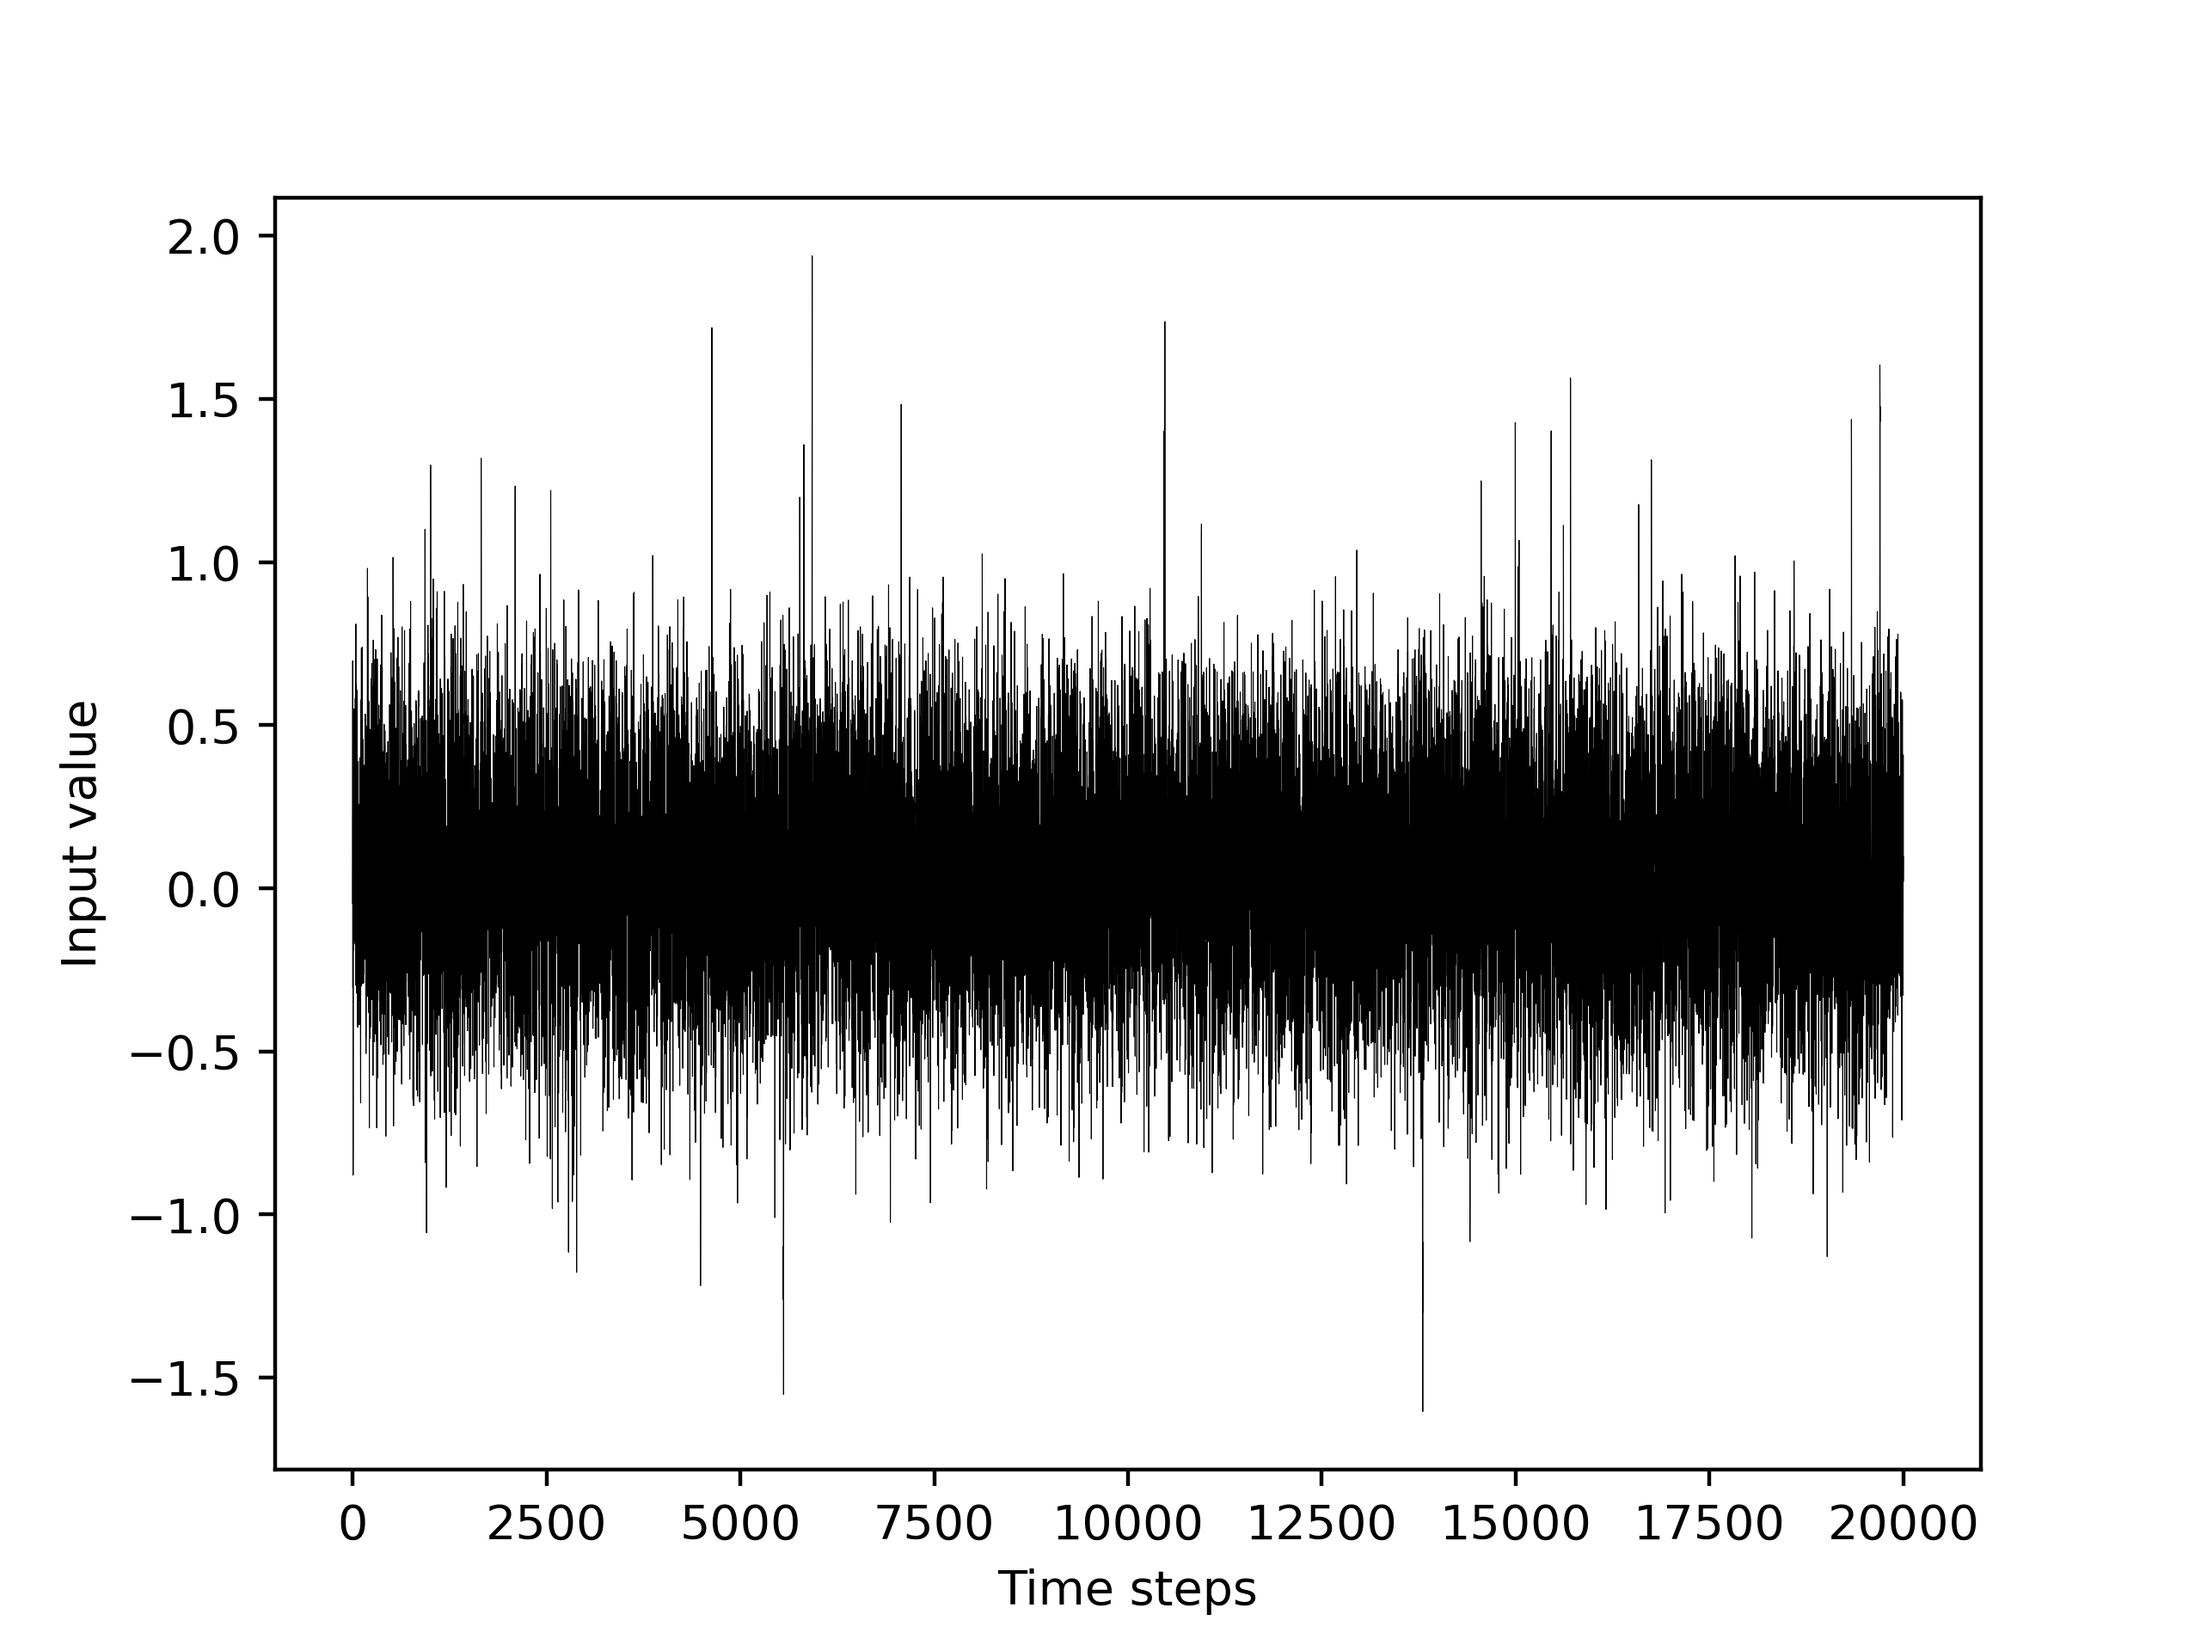
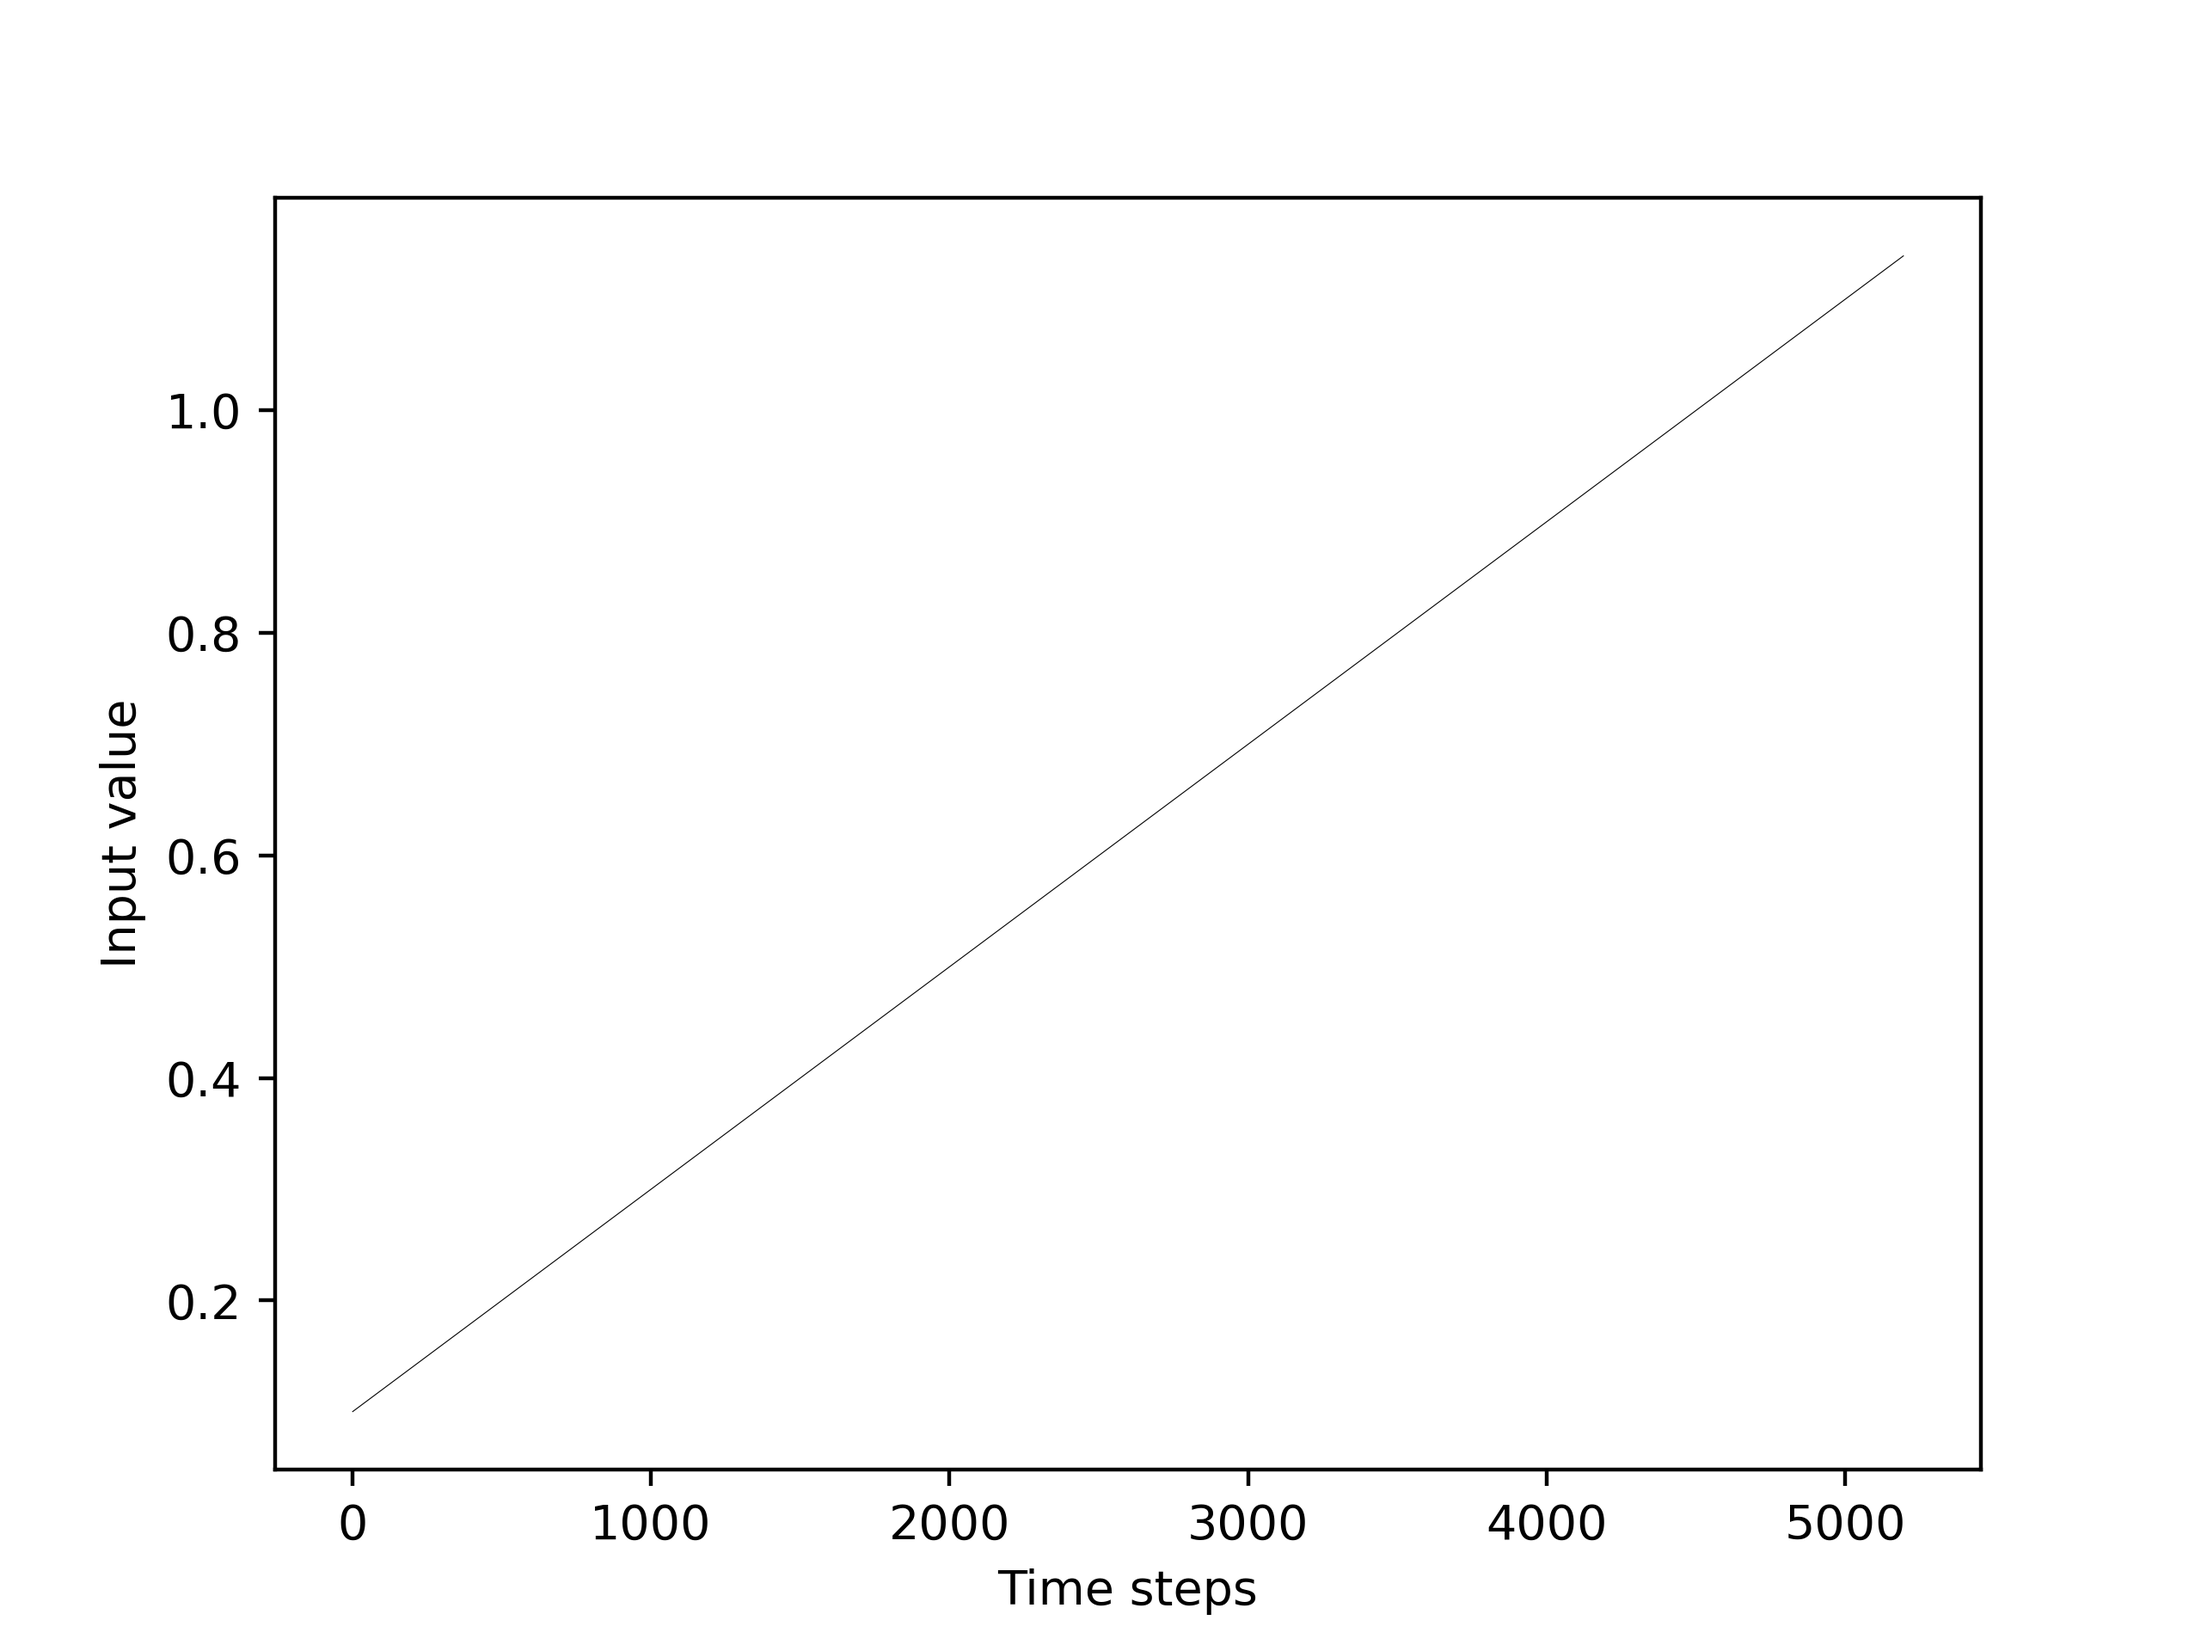
now number of unique networks are counted

diff --git a/Functions/base.cpp b/Functions/base.cpp
@@ -7,6 +7,9 @@ void genome::base (int N)
     ofstream Alive_counter ("./Outputs/Alive.txt");
     ofstream du_Alive_counter ("./Outputs/du_Alive.txt");
     ofstream enviroment ("./Outputs/envi.txt");
+    ofstream uni ("./Outputs/uni.txt");
+    ofstream du_uni ("./Outputs/du_uni.txt"); 
+
     int needed_networks;
     int du_needed_networks;
     double evolve = 0;
@@ -27,15 +30,15 @@ void genome::base (int N)
         du_Reader(du_location);
     }
     
-    int step = 10000;
+    int step = 5000;
     
     for (int ini=1 ; ini < (2*step) ; ini++)
     {
         needed_networks = 0;
         du_needed_networks = 0;
-        //evolve = Environment_li(ini, step) ; //for linear and step based increase
+        evolve = Environment_li(ini, step) ; //for linear and step based increase
         //evolve = Environment_Ga(); //Gaus environment
-        evolve = Environment_no_l(evolve, step); //No linear with gaus jumps environment
+        //evolve = Environment_no_l(evolve, step); //No linear with gaus jumps environment
         alive = 0;
         du_alive = 0;
         fit = 0;
@@ -119,8 +122,10 @@ void genome::base (int N)
 
         Alive_counter << ini <<'\t'<< zz <<endl;
         du_Alive_counter << ini <<'\t'<< du_zz <<endl;
-        enviroment << ini <<'\t'<< evolve <<endl;     
-        
+        enviroment << ini <<'\t'<< evolve <<endl;
+        int Un = 0; 
+        int du_Un = 0;
+
         //the whole block is for single networks ...
         
         if (needed_networks != 0 && alive != 0)
@@ -134,7 +139,16 @@ void genome::base (int N)
         {
             du_Chance_of_repro(du_needed_networks, number_networks);
         }
+        
+        for (int a=0 ; a<number_networks ; a++)     
+        {
+            if (ne[a].unique == true)   Un++;
+            
+            if (dn[a].unique == true)   du_Un++;
+        }
 
+        uni << ini << '\t' << Un << endl;
+        du_uni << ini << '\t' << du_Un << endl;
         if (alive == 0 || du_alive == 0)
             break;
     }

diff --git a/plotter.py b/plotter.py
@@ -8,6 +8,8 @@ os.mkdir("./diagrams")
 X = np.loadtxt("./Outputs/Alive.txt")
 Y = np.loadtxt("./Outputs/du_Alive.txt")
 Z = np.loadtxt("./Outputs/envi.txt")
+K = np.loadtxt("./Outputs/uni.txt")
+H = np.loadtxt("./Outputs/du_uni.txt")
 
 #for i in range (0,len(X)):
 #    X[i][1] = X[i][1] / 10000
@@ -19,6 +21,8 @@ Z = np.loadtxt("./Outputs/envi.txt")
 
 plt.plot([i[0] for i in X], [i[1] for i in X],label='non-duplicated',color='blue')
 plt.plot([i[0] for i in Y], [i[1] for i in Y],label='duplicated',color='orange', alpha=0.6)
+
+
 
 #plt.bar([i[0] for i in X], [i[1] for i in X],label='non-duplicated',color='blue')
 #plt.bar([i[0] for i in Y], [i[1] for i in Y],label='duplicated',color='orange', alpha=0.5)
@@ -36,4 +40,15 @@ plt.plot([i[0] for i in Z], [i[1] for i in Z],color='black', lw=0.2)
 plt.xlabel("Time steps")
 plt.ylabel("Input value")
 plt.savefig('./diagrams/env.png',dpi=400)
+plt.close()
+
+
+plt.plot([i[0] for i in K], [i[1] for i in K],label='non-duplicated',color='blue')
+plt.plot([i[0] for i in H], [i[1] for i in H],label='duplicated',color='orange', alpha=0.6)
+plt.yscale('log')
+plt.xscale('log')
+#plt.xlim(0,400)
+plt.xlabel("log [Time steps]")
+plt.ylabel("log[Number of Unique networks]")
+plt.savefig('./diagrams/un.png',dpi=400)
 plt.close()

diff --git a/Functions/reader.cpp b/Functions/reader.cpp
@@ -14,7 +14,8 @@ void genome::Reader(string location)
             if (ne[temp_net].adjac[j][k] != 0)   connect (j, k, ne[temp_net].adjac[j][k], temp_net);
         }
     }
-    
+
+    ne[temp_net].unique = true;
     NetWork.close();
     ne[temp_net].living = true;
     specefication();
@@ -34,7 +35,8 @@ void genome::du_Reader(string du_location)
             if (dn[temp_net].du_adjac[j][k] != 0)    du_connect (j, k, dn[temp_net].du_adjac[j][k], temp_net);
         }
     }
-    
+
+    dn[temp_net].unique = true;
     NetWork.close();
     dn[temp_net].living = true;
     du_specefication();

diff --git a/Functions/setting_initial_values.cpp b/Functions/setting_initial_values.cpp
@@ -24,6 +24,7 @@ int genome::Setting_initial_values(int N)
         ne[i].II = 0;
         ne[i].UU = 0;
         ne[i].living = false;
+        ne[i].unique = false;
 
         for (int z=0 ; z<n ; z++)
         {
@@ -40,6 +41,7 @@ int genome::Setting_initial_values(int N)
         dn[i].du_II = 0;
         dn[i].du_UU = 0;
         dn[i].living = false;
+        dn[i].unique = false;
 
         for (int z=0 ; z<nn ; z++)
         {

diff --git a/Functions/du_reproduction.cpp b/Functions/du_reproduction.cpp
@@ -67,7 +67,7 @@ void genome::du_Copy(int idl, int slv)
 
     dn[slv].du_input = new int [dn[idl].du_II];
     std::copy(dn[idl].du_input, dn[idl].du_input + dn[idl].du_II, dn[slv].du_input);
-
+    dn[slv].unique = false;
     
     for (int F=0 ; F<nn ; F++)
     {

diff --git a/Functions/Reproduction.cpp b/Functions/Reproduction.cpp
@@ -67,7 +67,7 @@ void genome::Copy(int idl, int slv)
 
     ne[slv].input = new int [ne[idl].II];
     std::copy(ne[idl].input, ne[idl].input + ne[idl].II, ne[slv].input);
-
+    ne[slv].unique = false;
     
     for (int F=0 ; F<n ; F++)
     {

diff --git a/Headers/DU_net_gene.hpp b/Headers/DU_net_gene.hpp
@@ -14,6 +14,7 @@ class dNet
         double XX;
         bool living;
         int nn;
+        bool unique;
         
         dNet(){};
         

diff --git a/Headers/Net_gene.hpp b/Headers/Net_gene.hpp
@@ -12,6 +12,7 @@ public:
     double xx;
     bool living;
     int n;
+    bool unique;
     
     Net(){};
 
